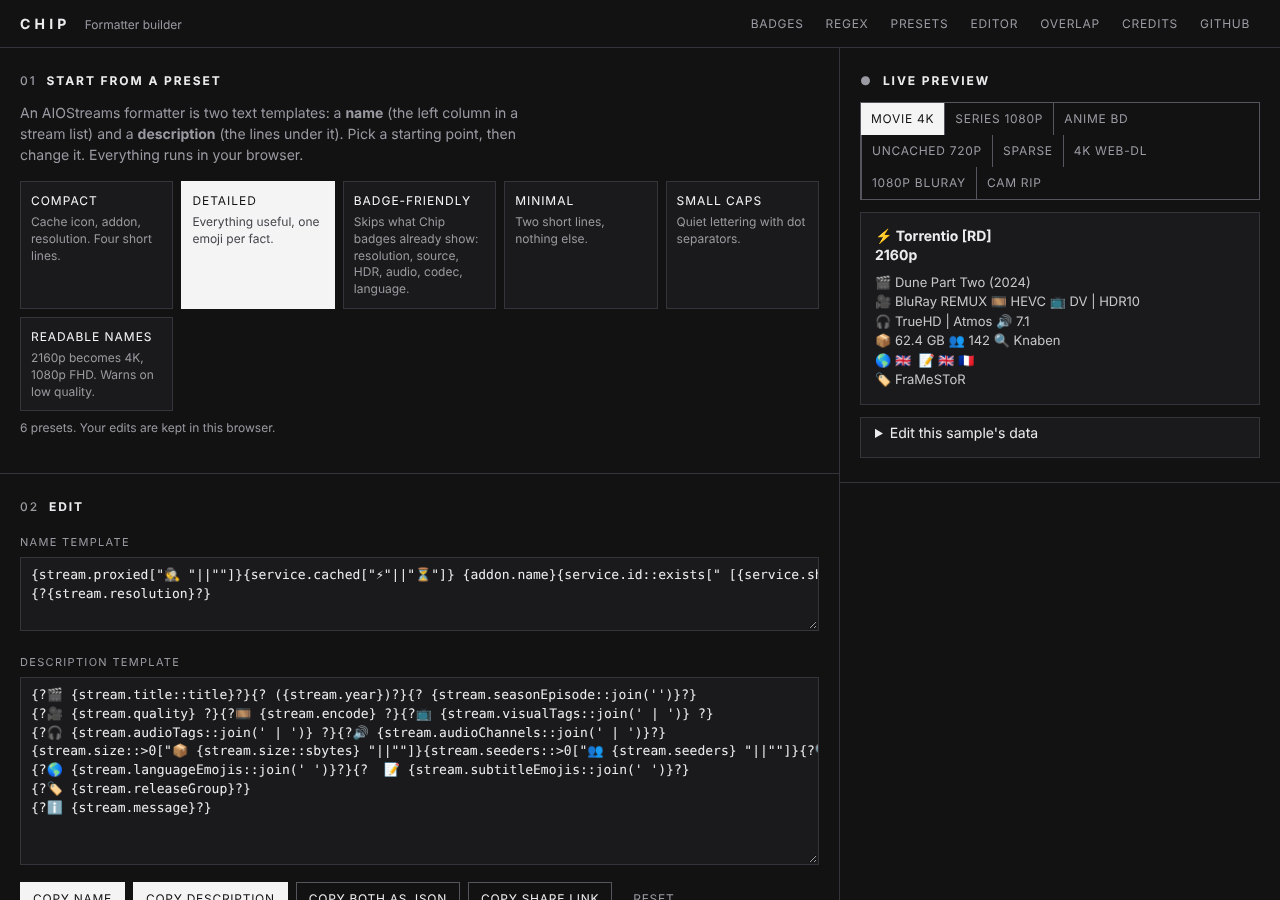
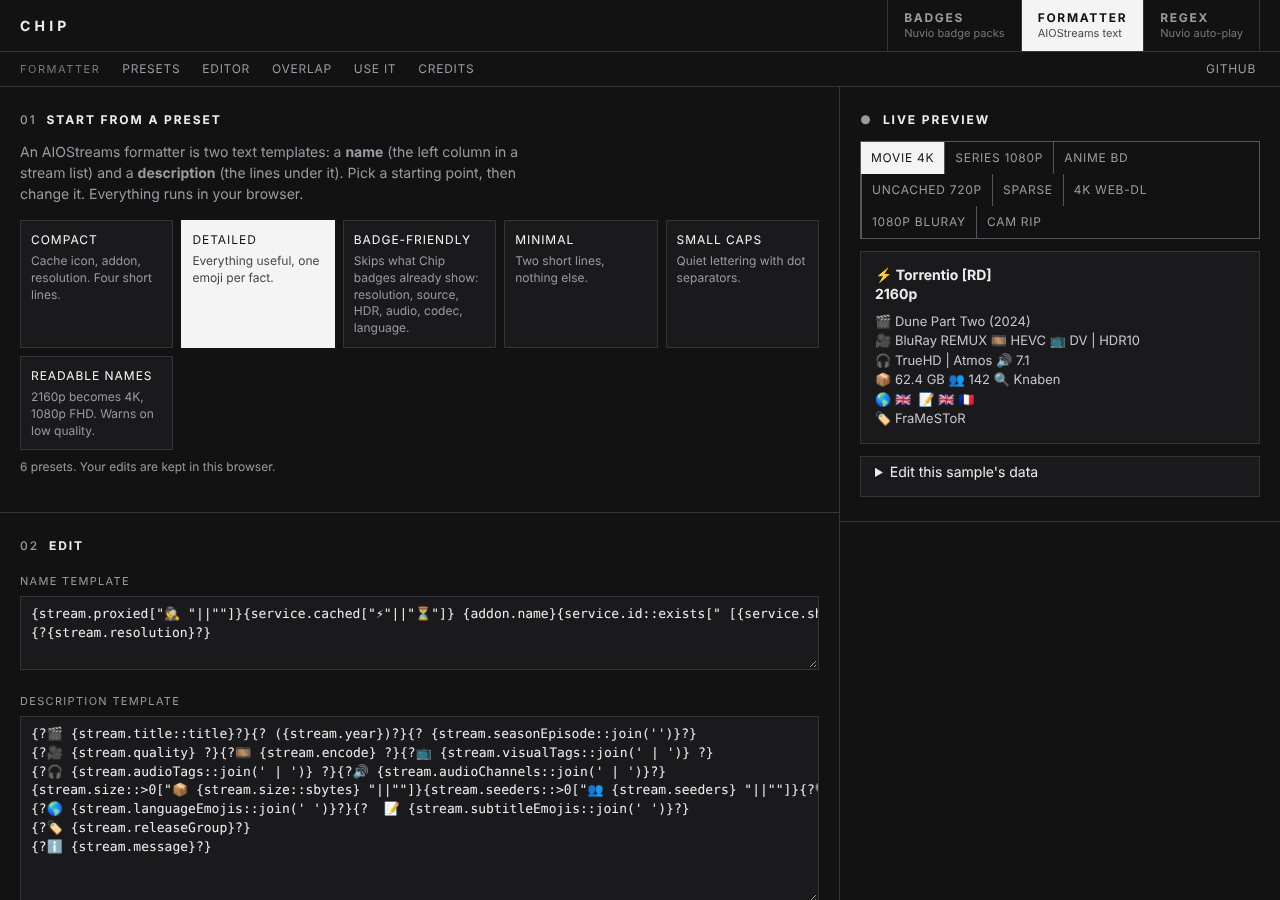
Two-level navigation: tool switcher (Badges, Formatter, Regex) and per-page sections
Claude-Session: https://claude.ai/code/session_01BBzKyXhXqtfiKR4JCFDgG4

diff --git a/style.css b/style.css
@@ -5,25 +5,38 @@
   --sans:Inter,system-ui,-apple-system,"Segoe UI",Roboto,Helvetica,Arial,sans-serif;
 }
 *{box-sizing:border-box;border-radius:0!important}
-html{scroll-behavior:smooth;scroll-padding-top:64px}
+html{scroll-behavior:smooth;scroll-padding-top:98px}
 body{margin:0;background:var(--bg);color:var(--text);font:14px/1.5 var(--sans);-webkit-font-smoothing:antialiased}
 a{color:var(--white);text-underline-offset:3px}
 a:hover{background:var(--white);color:var(--ink);text-decoration:none}
 h2{margin:0 0 12px;font-size:12px;font-weight:700;letter-spacing:.16em;text-transform:uppercase}
 h2 i{font-style:normal;color:var(--mut);margin-right:10px;font-weight:500}
-.top{position:sticky;top:0;z-index:5;display:flex;justify-content:space-between;align-items:center;gap:16px;
-  padding:0 20px;height:48px;background:var(--bg);border-bottom:1px solid var(--line)}
-.brand b{letter-spacing:.3em;margin-right:14px}
-.brand span{color:var(--mut);font-size:12px}
-.top nav{display:flex;gap:2px;overflow-x:auto}
-.top nav a{padding:6px 10px;font-size:12px;letter-spacing:.06em;text-transform:uppercase;text-decoration:none;color:var(--mut)}
-.top nav a:hover{background:var(--white);color:var(--ink)}
+.top{position:sticky;top:0;z-index:5;background:var(--bg);border-bottom:1px solid var(--line)}
+.top .bar{display:flex;align-items:stretch;gap:20px;padding:0 20px;height:52px;border-bottom:1px solid var(--line)}
+.brand{display:flex;align-items:center;flex:none}
+.brand b{letter-spacing:.3em}
+.tools{display:flex;gap:0;align-items:stretch;margin-left:auto}
+.tools a{display:flex;flex-direction:column;justify-content:center;padding:0 16px;text-decoration:none;color:var(--mut);border-left:1px solid var(--line);line-height:1.2}
+.tools a:last-child{border-right:1px solid var(--line)}
+.tools a b{font-size:12px;letter-spacing:.14em;text-transform:uppercase;font-weight:700}
+.tools a small{font-size:11px;color:#77777f;margin-top:2px}
+.tools a:hover{background:var(--white);color:var(--ink)}
+.tools a:hover small{color:#44444a}
+.tools a[aria-current=page]{background:var(--white);color:var(--ink)}
+.tools a[aria-current=page] small{color:#44444a}
+.top .sub{display:flex;align-items:center;gap:2px;padding:0 14px;height:34px;overflow-x:auto;scrollbar-width:none}
+.top .sub::-webkit-scrollbar{display:none}
+.top .sub .here{font-size:11px;letter-spacing:.14em;text-transform:uppercase;color:#77777f;padding:0 10px 0 6px;white-space:nowrap}
+.top .sub a{padding:5px 10px;font-size:12px;letter-spacing:.06em;text-transform:uppercase;text-decoration:none;color:var(--mut);white-space:nowrap}
+.top .sub a:hover{background:var(--white);color:var(--ink)}
+.top .sub a.ext{margin-left:auto}
+@media(max-width:640px){.top .bar{padding:0 0 0 12px;gap:8px}.brand b{letter-spacing:.2em}.tools a{padding:0 10px}.tools a small{display:none}.tools a b{letter-spacing:.08em}}
 .wrap{display:grid;grid-template-columns:minmax(0,1fr);gap:0;max-width:1280px;margin:0 auto}
 @media(min-width:1000px){.wrap{grid-template-columns:minmax(0,1fr) 440px}}
 .main{border-right:1px solid var(--line)}
 .sec{padding:24px 20px;border-bottom:1px solid var(--line)}
 .side{align-self:start}
-@media(min-width:1000px){.side{position:sticky;top:48px;max-height:calc(100vh - 48px);overflow:auto}}
+@media(min-width:1000px){.side{position:sticky;top:87px;max-height:calc(100vh - 87px);overflow:auto}}
 .lead{color:var(--mut);margin:0 0 16px;max-width:60ch}
 .hint{color:var(--mut);font-size:12px;margin:8px 0 12px}
 .lbl{display:block;margin:18px 0 6px;font-size:11px;letter-spacing:.12em;text-transform:uppercase;color:var(--mut)}

diff --git a/regex.html b/regex.html
@@ -1,28 +1,23 @@
 <!doctype html>
-<html lang="en" data-v="17">
+<html lang="en" data-v="18">
 <head>
 <meta charset="utf-8">
 <meta name="viewport" content="width=device-width, initial-scale=1">
 <title>Chip · Auto-play regex builder for Nuvio</title>
 <meta name="description" content="Build and test the regex Nuvio uses to auto-select a stream. Tick what you want and what you never want, and see which stream Nuvio would play.">
 <link rel="icon" href="favicon.svg" type="image/svg+xml">
-<link rel="stylesheet" href="style.css?v=17">
-<link rel="stylesheet" href="formatter.css?v=17">
+<link rel="stylesheet" href="style.css?v=18">
+<link rel="stylesheet" href="formatter.css?v=18">
 <link rel="stylesheet" href="regex.css?v=17">
 </head>
 <body>
 
 <header class="top">
-  <div class="brand"><b>CHIP</b><span>Auto-play regex builder</span></div>
-  <nav aria-label="Sections">
-    <a href="./">Badges</a>
-    <a href="formatter.html">Formatter</a>
-    <a href="#rx-start">Presets</a>
-    <a href="#rx-build">Build</a>
-    <a href="#rx-pattern">Pattern</a>
-    <a href="#rx-credits">Credits</a>
-    <a href="https://github.com/aljaz-h/chip" target="_blank" rel="noopener noreferrer">GitHub</a>
-  </nav>
+  <div class="bar">
+    <div class="brand"><b>CHIP</b></div>
+    <nav class="tools" aria-label="Tools"><a href="./"><b>Badges</b><small>Nuvio badge packs</small></a><a href="formatter.html"><b>Formatter</b><small>AIOStreams text</small></a><a href="regex.html" aria-current="page"><b>Regex</b><small>Nuvio auto-play</small></a></nav>
+  </div>
+  <nav class="sub" aria-label="On this page"><span class="here">Regex</span><a href="#rx-start">Presets</a><a href="#rx-build">Build</a><a href="#rx-pattern">Pattern</a><a href="#rx-how">Use it</a><a href="#rx-credits">Credits</a><a class="ext" href="https://github.com/aljaz-h/chip" target="_blank" rel="noopener noreferrer">GitHub</a></nav>
 </header>
 
 <main class="wrap">
@@ -122,7 +117,7 @@
   </aside>
 </main>
 
-<script src="formatter-engine.js?v=17"></script>
+<script src="formatter-engine.js?v=18"></script>
 <script src="formatter-data.js?v=17"></script>
 <script src="regex.js?v=17"></script>
 </body>

diff --git a/formatter.html b/formatter.html
@@ -1,27 +1,22 @@
 <!doctype html>
-<html lang="en" data-v="17">
+<html lang="en" data-v="18">
 <head>
 <meta charset="utf-8">
 <meta name="viewport" content="width=device-width, initial-scale=1">
 <title>Chip · Formatter builder for AIOStreams</title>
 <meta name="description" content="Build and preview AIOStreams custom formatter templates in your browser, with presets and a check for text your badges already show.">
 <link rel="icon" href="favicon.svg" type="image/svg+xml">
-<link rel="stylesheet" href="style.css?v=17">
-<link rel="stylesheet" href="formatter.css?v=17">
+<link rel="stylesheet" href="style.css?v=18">
+<link rel="stylesheet" href="formatter.css?v=18">
 </head>
 <body>
 
 <header class="top">
-  <div class="brand"><b>CHIP</b><span>Formatter builder</span></div>
-  <nav aria-label="Sections">
-    <a href="./">Badges</a>
-    <a href="regex.html">Regex</a>
-    <a href="#start">Presets</a>
-    <a href="#editor">Editor</a>
-    <a href="#overlap">Overlap</a>
-    <a href="#credits">Credits</a>
-    <a href="https://github.com/aljaz-h/chip" target="_blank" rel="noopener noreferrer">GitHub</a>
-  </nav>
+  <div class="bar">
+    <div class="brand"><b>CHIP</b></div>
+    <nav class="tools" aria-label="Tools"><a href="./"><b>Badges</b><small>Nuvio badge packs</small></a><a href="formatter.html" aria-current="page"><b>Formatter</b><small>AIOStreams text</small></a><a href="regex.html"><b>Regex</b><small>Nuvio auto-play</small></a></nav>
+  </div>
+  <nav class="sub" aria-label="On this page"><span class="here">Formatter</span><a href="#start">Presets</a><a href="#editor">Editor</a><a href="#overlap">Overlap</a><a href="#how">Use it</a><a href="#credits">Credits</a><a class="ext" href="https://github.com/aljaz-h/chip" target="_blank" rel="noopener noreferrer">GitHub</a></nav>
 </header>
 
 <main class="wrap">
@@ -105,8 +100,8 @@
   </aside>
 </main>
 
-<script src="formatter-engine.js?v=17"></script>
+<script src="formatter-engine.js?v=18"></script>
 <script src="formatter-data.js?v=17"></script>
-<script src="formatter.js?v=17"></script>
+<script src="formatter.js?v=18"></script>
 </body>
 </html>

diff --git a/index.html b/index.html
@@ -1,5 +1,5 @@
 <!doctype html>
-<html lang="en" data-v="17">
+<html lang="en" data-v="18">
 <head>
 <meta charset="utf-8">
 <meta name="viewport" content="width=device-width, initial-scale=1">
@@ -30,22 +30,16 @@
   window.addEventListener('unhandledrejection', function (e) { window.chipBanner('Something went wrong: ' + ((e.reason && e.reason.message) || e.reason || 'unknown') + '.'); });
 })();
 </script>
-<link rel="stylesheet" href="style.css?v=17">
+<link rel="stylesheet" href="style.css?v=18">
 </head>
 <body>
 
 <header class="top">
-  <div class="brand"><b>CHIP</b><span>Fusion badges for Nuvio</span></div>
-  <nav aria-label="Sections">
-    <a href="#start">Start</a>
-    <a href="#style">Style</a>
-    <a href="#badges">Badges</a>
-    <a href="#export">Export</a>
-    <a href="#credits">Credits</a>
-    <a href="formatter.html">Formatter</a>
-    <a href="regex.html">Regex</a>
-    <a href="https://github.com/aljaz-h/chip" target="_blank" rel="noopener noreferrer">GitHub</a>
-  </nav>
+  <div class="bar">
+    <div class="brand"><b>CHIP</b></div>
+    <nav class="tools" aria-label="Tools"><a href="./" aria-current="page"><b>Badges</b><small>Nuvio badge packs</small></a><a href="formatter.html"><b>Formatter</b><small>AIOStreams text</small></a><a href="regex.html"><b>Regex</b><small>Nuvio auto-play</small></a></nav>
+  </div>
+  <nav class="sub" aria-label="On this page"><span class="here">Badges</span><a href="#start">Start</a><a href="#style">Style</a><a href="#badges">Badges</a><a href="#export">Export</a><a href="#credits">Credits</a><a class="ext" href="https://github.com/aljaz-h/chip" target="_blank" rel="noopener noreferrer">GitHub</a></nav>
 </header>
 
 <main class="wrap">
@@ -271,7 +265,7 @@
 
 <div id="toast" class="toast" role="status" aria-live="polite"></div>
 
-<script src="catalog.js?v=17"></script>
-<script src="app.js?v=17"></script>
+<script src="catalog.js?v=18"></script>
+<script src="app.js?v=18"></script>
 </body>
 </html>

diff --git a/catalog.js b/catalog.js
@@ -1402,4 +1402,4 @@ window.CATALOG = {
   }
  ]
 };
-window.CHIP_V = "17";
+window.CHIP_V = "18";

diff --git a/tools/build.py b/tools/build.py
@@ -560,7 +560,7 @@ else:
 # ART_V: a hash of all artwork. It is appended to image URLs in exported packs, so an app that caches images by
 # URL (Nuvio) downloads them again when the artwork changes.
 import hashlib
-SITE_V = "17"
+SITE_V = "18"
 _h = hashlib.sha1()
 for _r, _d, _fs in sorted(os.walk(os.path.join(OUT, "badges"))):
     for _f in sorted(_fs):
